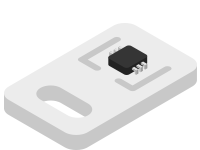
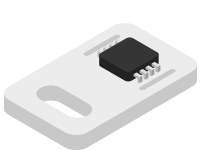
add sht2

Changed region(s): [[0.39, 0.2133, 0.87, 0.6133]]

diff --git a/blockly/apps/mixly/myblock.js b/blockly/apps/mixly/myblock.js
@@ -1,2 +1,2 @@
 var myblock='null';
-var company_block='<sep></sep><!-- type="company" block="block/Microduino.js" generator="generator/Microduino.js"  lib="" --><script type="text/javascript" src="../../blocks/company/core/serial_Blocks.js"></script><script type="text/javascript" src="../../generators/arduino/company/core/serial_Arduino.js"></script><script type="text/javascript" src="../../blocks/company/extended/OLED_Blocks.js"></script><script type="text/javascript" src="../../generators/arduino/company/extended/OLED_Arduino.js"></script><script type="text/javascript" src="../../blocks/company/extended/Motor_Blocks.js"></script><script type="text/javascript" src="../../generators/arduino/company/extended/Motor_Arduino.js"></script><script type="text/javascript" src="../../blocks/company/extended/Stepper_Blocks.js"></script><script type="text/javascript" src="../../generators/arduino/company/extended/Stepper_Arduino.js"></script><script type="text/javascript" src="../../blocks/company/extended/DotMatrix_Blocks.js"></script><script type="text/javascript" src="../../generators/arduino/company/extended/DotMatrix_Arduino.js"></script><script type="text/javascript" src="../../blocks/company/function/Audio_Blocks.js"></script><script type="text/javascript" src="../../generators/arduino/company/function/Audio_Arduino.js"></script><script type="text/javascript" src="../../blocks/company/function/RTC_Blocks.js"></script><script type="text/javascript" src="../../generators/arduino/company/function/RTC_Arduino.js"></script><script type="text/javascript" src="../../blocks/company/function/SD_Blocks.js"></script><script type="text/javascript" src="../../generators/arduino/company/function/SD_Arduino.js"></script><script type="text/javascript" src="../../blocks/company/function/motion_Blocks.js"></script><script type="text/javascript" src="../../generators/arduino/company/function/motion_Arduino.js"></script><script type="text/javascript" src="../../blocks/company/function/GPS_Blocks.js"></script><script type="text/javascript" src="../../generators/arduino/company/function/GPS_Arduino.js"></script><script type="text/javascript" src="../../blocks/company/communication/BT_Blocks.js"></script><script type="text/javascript" src="../../generators/arduino/company/communication/BT_Arduino.js"></script><script type="text/javascript" src="../../blocks/company/communication/Zigbee_Blocks.js"></script><script type="text/javascript" src="../../generators/arduino/company/communication/Zigbee_Arduino.js"></script><script type="text/javascript" src="../../blocks/company/communication/W5500_Blocks.js"></script><script type="text/javascript" src="../../generators/arduino/company/communication/W5500_Arduino.js"></script><script type="text/javascript" src="../../blocks/company/communication/nRF24_Blocks.js"></script><script type="text/javascript" src="../../generators/arduino/company/communication/nRF24_Arduino.js"></script><script type="text/javascript" src="../../blocks/company/communication/smartRF_Blocks.js"></script><script type="text/javascript" src="../../generators/arduino/company/communication/smartRF_Arduino.js"></script><script type="text/javascript" src="../../blocks/company/communication/NFC_Blocks.js"></script><script type="text/javascript" src="../../generators/arduino/company/communication/NFC_Arduino.js"></script><script type="text/javascript" src="../../blocks/company/communication/IRCommunication_Blocks.js"></script><script type="text/javascript" src="../../generators/arduino/company/communication/IRCommunication_Arduino.js"></script><script type="text/javascript" src="../../blocks/company/communication/GSM_Blocks.js"></script><script type="text/javascript" src="../../generators/arduino/company/communication/GSM_Arduino.js"></script><script type="text/javascript" src="../../blocks/company/communication/WIFI_Blocks.js"></script><script type="text/javascript" src="../../generators/arduino/company/communication/WIFI_Arduino.js"></script><script type="text/javascript" src="../../blocks/company/sensor/colorLED_Blocks.js"></script><script type="text/javascript" src="../../generators/arduino/company/sensor/colorLED_Arduino.js"></script><script type="text/javascript" src="../../blocks/company/sensor/BreathingLight_Blocks.js"></script><script type="text/javascript" src="../../generators/arduino/company/sensor/BreathingLight_Arduino.js"></script><script type="text/javascript" src="../../blocks/company/sensor/Timer_Blocks.js"></script><script type="text/javascript" src="../../generators/arduino/company/sensor/Timer_Arduino.js"></script><script type="text/javascript" src="../../blocks/company/sensor/Buzzer_Blocks.js"></script><script type="text/javascript" src="../../generators/arduino/company/sensor/Buzzer_Arduino.js"></script><script type="text/javascript" src="../../blocks/company/sensor/KEY_Blocks.js"></script><script type="text/javascript" src="../../generators/arduino/company/sensor/KEY_Arduino.js"></script><script type="text/javascript" src="../../blocks/company/sensor/Tem_Hum_Blocks.js"></script><script type="text/javascript" src="../../generators/arduino/company/sensor/Tem_Hum_Arduino.js"></script><script type="text/javascript" src="../../blocks/company/sensor/joystick_Blocks.js"></script><script type="text/javascript" src="../../generators/arduino/company/sensor/joystick_Arduino.js"></script><script type="text/javascript" src="../../blocks/company/sensor/LM75_Blocks.js"></script><script type="text/javascript" src="../../generators/arduino/company/sensor/LM75_Arduino.js"></script><script type="text/javascript" src="../../blocks/company/sensor/TSL2561_Blocks.js"></script><script type="text/javascript" src="../../generators/arduino/company/sensor/TSL2561_Arduino.js"></script><script type="text/javascript" src="../../blocks/company/sensor/digitalRead_Blocks.js"></script><script type="text/javascript" src="../../generators/arduino/company/sensor/digitalRead_Arduino.js"></script><script type="text/javascript" src="../../blocks/company/sensor/analogRead_Blocks.js"></script><script type="text/javascript" src="../../generators/arduino/company/sensor/analogRead_Arduino.js"></script><script type="text/javascript" src="../../blocks/company/VariableExpansion/NewVariable_Blocks.js"></script><script type="text/javascript" src="../../generators/arduino/company/VariableExpansion/NewVariable_Arduino.js"></script><category id="microduino" colour="0"><!--鏍稿績--><category id="catMicroduinoCore" colour="#eb584e"><!-- 		<block type="serialBegin"></block><block type="serialPrint"></block><block type="serialPrintln"></block> --><block type="microduinoWatting"></block><block type="microduinoWhile"></block><block type="microduinoFor"><value name="FROM"><shadow type="math_number"><field name="NUM">1</field></shadow></value><value name="TO"><shadow type="math_number"><field name="NUM">10</field></shadow></value></block><block type="microduinoAnaloyWrite"><value name="pwmNumber"><shadow type="math_number"><field name="NUM">0</field></shadow></value></block><block type="microduinoAnaloyRead"></block></category><!--鎵╁睍--><category id="catMicroduinoExtended" colour="#27b6ac"><block type="MotorBeginchange"></block><block type="Motor_run"><value name="speed"><shadow type="math_number"><field name="NUM">255</field></shadow></value></block><block type="MotorBreak"></block><block type="MotorFree"></block><block type="MotorBegin"></block><block type="Car_Motor"><value name="speed"><shadow type="math_number"><field name="NUM">255</field></shadow></value><value name="angle"><shadow type="math_number"><field name="NUM">255</field></shadow></value></block><block type="mCookie_Motor"></block><block type="mdStepperBegin"></block><block type="mdStepperControl"><value name="speed"><shadow type="math_number"><field name="NUM">60</field></shadow></value></block><!--Dot matrix screen--><block type="DotMatrix"><block type="dotMatrixName"></block><value name="row0"><block type="DotMatrixRow"></block></value><value name="row1"><block type="DotMatrixRow"></block></value><value name="row2"><block type="DotMatrixRow"></block></value><value name="row3"><block type="DotMatrixRow"></block></value><value name="row4"><block type="DotMatrixRow"></block></value><value name="row5"><block type="DotMatrixRow"></block></value><value name="row6"><block type="DotMatrixRow"></block></value><value name="row7"><block type="DotMatrixRow"></block></value></block><block type="DotMatrixAddArray"></block><block type="DotMatrixAddNum"></block><block type="getMatrixNum"></block><block type="getMatrixDeviceAddr"><value name="MatrixIndex"><shadow type="math_number"><field name="NUM">1</field></shadow></value></block><block type="getMatrixHeight"></block><block type="getMatrixWidth"></block><block type="setMatrixLedColor"><value name="MatrixIndexX"><shadow type="math_number"><field name="NUM">0</field></shadow></value><value name="MatrixIndexY"><shadow type="math_number"><field name="NUM">0</field></shadow></value><value name="MatrixIndexRed"><shadow type="math_number"><field name="NUM">255</field></shadow></value><value name="MatrixIndexGreen"><shadow type="math_number"><field name="NUM">255</field></shadow></value><value name="MatrixIndexBlue"><shadow type="math_number"><field name="NUM">255</field></shadow></value></block><block type="clearMatrixDisplay"></block><block type="setMatrixColor"><value name="MatrixRed"><shadow type="math_number"><field name="NUM">255</field></shadow></value><value name="MatrixGreen"><shadow type="math_number"><field name="NUM">255</field></shadow></value><value name="MatrixBlue"><shadow type="math_number"><field name="NUM">255</field></shadow></value></block><block type="clearMatrixColor"></block><block type="MatrixWriteString"><value name="startMatrixT"><shadow type="math_number"><field name="NUM">20</field></shadow></value><value name="startMatrixXY"><shadow type="math_number"><field name="NUM">0</field></shadow></value></block><block type="OLED_begin"></block><block type="OLED_print"><value name="x"><shadow type="math_number"><field name="NUM">0</field></shadow></value><value name="y"><shadow type="math_number"><field name="NUM">20</field></shadow></value><value name="text"><block type="text"><field name="TEXT">hello Microduino</field></block></value></block><block type="OLED_print_roll"><value name="y"><shadow type="math_number"><field name="NUM">20</field></shadow></value><value name="x"><shadow type="math_number"><field name="NUM">100</field></shadow></value><value name="text"><block type="text"><field name="TEXT">hello mCookie</field></block></value></block><block type="OLED_simplePrint"><value name="text"><block type="text"><field name="TEXT">hello Microduino</field></block></value></block></category><!--鍔熻兘--><category id="catMicroduinoFunction" colour="#e5b748"><!--audio妯″潡--><block type="mCookie_Audio_Serial"><value name="Vol"><shadow type="math_number"><field name="NUM">20</field></shadow></value></block><block type="mCookie_Audio_Control"></block><block type="mCookie_Audio_Choose"><value name="audioNumber"><shadow type="math_number"><field name="NUM">1</field></shadow></value></block><!--RTC妯″潡--><block type="mCookie_RTC_set"><value name="Year"><shadow type="math_number"><field name="NUM">15</field></shadow></value><value name="Mouth"><shadow type="math_number"><field name="NUM">10</field></shadow></value><value name="Day"><shadow type="math_number"><field name="NUM">5</field></shadow></value><value name="Week"><shadow type="math_number"><field name="NUM">1</field></shadow></value><value name="Hour"><shadow type="math_number"><field name="NUM">10</field></shadow></value><value name="Minute"><shadow type="math_number"><field name="NUM">5</field></shadow></value><value name="Second"><shadow type="math_number"><field name="NUM">0</field></shadow></value></block><block type="mCookie_RTC_time"></block><block type="mCookie_RTC_Output"></block><!--GPS妯″潡--><block type="GPS"></block><block type="GPSShows"><value name="GPSHour"><block type="GPSHour"></block></value><value name="GPSMinute"><block type="GPSMinute"></block></value><value name="GPSSeconds"><block type="GPSSeconds"></block></value><value name="GPSDay"><block type="GPSDay"></block></value><value name="GPSMonth"><block type="GPSMonth"></block></value><value name="GPSYear"><block type="GPSYear"></block></value><value name="GPSFix"><block type="GPSFix"></block></value><value name="GPSQuality"><block type="GPSQuality"></block></value><value name="GPSLatitude"><block type="GPSLatitude"></block></value><value name="GPSLat"><block type="GPSLat"></block></value><value name="GPSLongitude"><block type="GPSLongitude"></block></value><value name="GPSLon"><block type="GPSLon"></block></value><value name="GPSSpeed"><block type="GPSSpeed"></block></value><value name="GPSAngle"><block type="GPSAngle"></block></value><value name="GPSAltitude"><block type="GPSAltitude"></block></value><value name="GPSSatellites"><block type="GPSSatellites"></block></block><!--Motion妯″潡--><block type="motionBegin"></block><block type="accX"></block><block type="accY"></block><block type="accZ"></block><block type="gyroX"></block><block type="gyroY"></block><block type="gyroZ"></block><block type="tabSpace"></block><block type="motionDoing"><value name="ax"><block type="accX"></block></value><value name="ay"><block type="accY"></block></value><value name="az"><block type="accZ"></block></value><value name="gx"><block type="gyroX"></block></value><value name="gy"><block type="gyroY"></block></value><value name="gz"><block type="gyroZ"></block></value></block><!--SD妯″潡--><block type="SD_Write"><value name="File_Name"><block type="text"><field name="File_Name">test.txt</field></block></value></block><block type="SD_Read"><value name="File_Name"><block type="text"><field name="File_Name">test.txt</field></block></value></block></category><!--閫氳--><category id="catMicroduinoCommunication" colour="#51a4ce"><!--BT--><block type="bluetoothMicroduinoBegin"></block><block type="bluetoothMicroduinoReciver"></block><block type="btMicroduinoReciverData"></block><block type="btMicroduinoSenderData"></block><block type="bluetoothmtankBegin"></block><block type="bluetoothmTankReciver"></block><block type="bluetoothmTankdata"></block><block type="bluetoothcolorled"></block><block type="IRSenderCode"><value name="data"><shadow type="math_number"><field name="NUM">0x89ABCDEF</field></shadow></value><value name="bits"><shadow type="math_number"><field name="NUM">32</field></shadow></value></block><block type="IRSenderRaw"><value name="length"><shadow type="math_number"><field name="NUM">3</field></shadow></value><value name="freq"><shadow type="math_number"><field name="NUM">38</field></shadow></value></block><block type="IRReciver"><value name="PIN"><shadow type="pins_digital"></shadow></value><statement name="DO"><block type="serial_print_hex"><value name="CONTENT"><block type="variables_get"><field name="VAR">ir_item</field></block></value></block></statement></block><block type="IRReciverRaw"><value name="PIN"><shadow type="pins_digital"></shadow></value></block><block type="IRReciverEnable"><value name="PIN"><shadow type="pins_digital"></shadow></value></block><!--nRF24--><block type="nRF_Init"></block><block type="nRF_Send"></block><block type="nRF_Read"></block><block type="WiFiBlynk"></block><block type="BLYNK_READ"></block><block type="BLYNK_WRITE"></block><block type="BLYNKParamOne"></block><block type="BLYNKParamArray"><value name="paramNum"><block type="math_number"><field name="NUM">0</field></block></value></block><block type="WiFiBlynkTimer"></block><block type="WiFiBlynkVirtualWrite"></block><!--Zigbee--><!--<block type="Zigbee_AT"></block><block type="Zigbee_Init"><value name="BRate"><block type="math_number"><field name="BRate">9600</field></block></value></block><block type="Zigbee_Send"><value name="text"><block type="text"><field name="TEXT">hello Microduino</field></block></value></block><block type="Zigbee_Read"></block><block type="controls_if"><value name="IF0"><block type="Zigbee_Available"></block></value><statement name="DO0"></statement></block><block type="VariableIs"><value name="VariableIs"><block type="text"><field name="VariableIs">AA</field></block></value></block>--><!--W5500--><!--<block type="controls_if"><value name="IF0"><block type="W5500_Init"></block></value><statement name="DO0"></statement></block>--><!--SmartRF--><!-- 		<block type="smartRF_Init_Send"></block><block type="smartRF_Init_Read"></block><block type="smartRF_Send"></block><block type="smartRF_Read"></block> --><!--NFC--><!-- 		<block type="NFC_Format"></block> --><!--<block type="NFC_Write"></block>--><!-- 		<block type="NFC_Read"></block> --><!--GSM--><!-- 		<block type="GSM_SMS"></block><block type="controls_if"><value name="IF0"><block type="W5500_Init"></block></value><statement name="DO0"></statement></block> --></category><!--鎵ц鍣�--><category id="catMicroduinoExecutor" colour="#e5624d"><!--BreathingLight --><block type="BreathingLightH"><value name="LEDPinNumber"><shadow type="math_number"><field name="NUM">6</field></shadow></value><value name="LEDFrequency"><shadow type="math_number"><field name="NUM">1</field></shadow></value></block><block type="BreathingLightX"><value name="LEDPinNumber"><shadow type="math_number"><field name="NUM">6</field></shadow></value><value name="LEDFrequency"><shadow type="math_number"><field name="NUM">1</field></shadow></value></block><!--colorLED--><block type="ws2812Begin"><value name="LEDNumber"><shadow type="math_number"><field name="NUM">1</field></shadow></value><value name="LEDPin"><shadow type="math_number"><field name="NUM">6</field></shadow></value></block><block type="ws2812Doing"><value name="LEDIndex"><shadow type="math_number"><field name="NUM">1</field></shadow></value></block><block type="ws2812DoingRGB"><value name="LEDIndex"><shadow type="math_number"><field name="NUM">1</field></shadow></value><value name="red"><shadow type="math_number"><field name="NUM">0</field></shadow></value><value name="green"><shadow type="math_number"><field name="NUM">0</field></shadow></value><value name="blue"><shadow type="math_number"><field name="NUM">0</field></shadow></value></block><block type="ws2812BreathRGB"><value name="LEDIndex"><shadow type="math_number"><field name="NUM">1</field></shadow></value><value name="red"><shadow type="math_number"><field name="NUM">255</field></shadow></value><value name="green"><shadow type="math_number"><field name="NUM">255</field></shadow></value><value name="blue"><shadow type="math_number"><field name="NUM">255</field></shadow></value></block><!--BUZZER--><block type="BuzzerTone"><value name="BuzzerPin"><shadow type="math_number"><field name="NUM">6</field></shadow></value><value name="Frequency"><shadow type="math_number"><field name="NUM">200</field></shadow></value></block><block type="BuzzerToneMelody"><value name="BuzzerPin"><shadow type="math_number"><field name="NUM">6</field></shadow></value></block><block type="BuzzerToneSong"><value name="BuzzerPin"><shadow type="math_number"><field name="NUM">6</field></shadow></value></block><block type="BuzzerNoTone"><value name="BuzzerPin"><shadow type="math_number"><field name="NUM">6</field></shadow></value></block><block type="MicroduinoTimer"><value name="intervalTime"><shadow type="math_number"><field name="NUM">2000</field></shadow></value></block><block type="MicroduinoTimerBegin"></block><block type="MicroduinoTimerOut"><value name="intervalTime"><shadow type="math_number"><field name="NUM">2000</field></shadow></value></block></category><!--浼犳劅鍣�--><category id="catMicroduinoSensor" colour="#3bc647"><!--KEY--><!-- 		<block type="oldKEYDigital"></block><block type="oldKEYAnalog"></block> --><block type="Microduino_KEYDigital"></block><block type="Microduino_KEYAnalog"></block><block type="lm75"></block><block type="TSL2561LightReady"></block><block type="TSL2561Light"></block><block type="xyJoystick"></block><block type="microduinoCrash"><value name="digitalPin"><shadow type="math_number"><field name="NUM">6</field></shadow></value></block><block type="microduinoTuch"><value name="digitalPin"><shadow type="math_number"><field name="NUM">6</field></shadow></value></block><block type="microduinoPIR"><value name="digitalPin"><shadow type="math_number"><field name="NUM">6</field></shadow></value></block><block type="microduinoMic"><value name="digitalPin"><shadow type="math_number"><field name="NUM">6</field></shadow></value></block><block type="microduinoLight"><value name="digitalPin"><shadow type="math_number"><field name="NUM">6</field></shadow></value></block><block type="microduinoMicAnal"></block><block type="microduinoLightAnal"></block><block type="microduinoIRRactAnal"></block><!--TEMP HUM--><block type="mCookie_AM2321"></block></category><!--鎵╁睍鍙橀噺--><category id="catVariableExpansion" colour="#da6ba3"><block type="Defination"></block><block type="nrfDataStructDefine"></block><block type="nrfDataMemberDefine"></block><block type="nrfDataSender"></block><block type="nrfDataMemberSender"></block><block type="nrfDataMemberReciver"></block><!-- 	      <block type="Structure"><statement name="DO"></statement></block><block type="Var_Definations"></block><block type="Struct_Var_Definations"></block> --><block type="melodyBuzzer"></block><block type="rhythmBuzzer"></block></category></category>';
+var company_block='<sep></sep><!-- type="company" block="block/Microduino.js" generator="generator/Microduino.js"  lib="" --><script type="text/javascript" src="../../blocks/company/core/serial_Blocks.js"></script><script type="text/javascript" src="../../generators/arduino/company/core/serial_Arduino.js"></script><script type="text/javascript" src="../../blocks/company/extended/OLED_Blocks.js"></script><script type="text/javascript" src="../../generators/arduino/company/extended/OLED_Arduino.js"></script><script type="text/javascript" src="../../blocks/company/extended/Motor_Blocks.js"></script><script type="text/javascript" src="../../generators/arduino/company/extended/Motor_Arduino.js"></script><script type="text/javascript" src="../../blocks/company/extended/Stepper_Blocks.js"></script><script type="text/javascript" src="../../generators/arduino/company/extended/Stepper_Arduino.js"></script><script type="text/javascript" src="../../blocks/company/extended/DotMatrix_Blocks.js"></script><script type="text/javascript" src="../../generators/arduino/company/extended/DotMatrix_Arduino.js"></script><script type="text/javascript" src="../../blocks/company/function/Audio_Blocks.js"></script><script type="text/javascript" src="../../generators/arduino/company/function/Audio_Arduino.js"></script><script type="text/javascript" src="../../blocks/company/function/RTC_Blocks.js"></script><script type="text/javascript" src="../../generators/arduino/company/function/RTC_Arduino.js"></script><script type="text/javascript" src="../../blocks/company/function/SD_Blocks.js"></script><script type="text/javascript" src="../../generators/arduino/company/function/SD_Arduino.js"></script><script type="text/javascript" src="../../blocks/company/function/motion_Blocks.js"></script><script type="text/javascript" src="../../generators/arduino/company/function/motion_Arduino.js"></script><script type="text/javascript" src="../../blocks/company/function/GPS_Blocks.js"></script><script type="text/javascript" src="../../generators/arduino/company/function/GPS_Arduino.js"></script><script type="text/javascript" src="../../blocks/company/communication/BT_Blocks.js"></script><script type="text/javascript" src="../../generators/arduino/company/communication/BT_Arduino.js"></script><script type="text/javascript" src="../../blocks/company/communication/Zigbee_Blocks.js"></script><script type="text/javascript" src="../../generators/arduino/company/communication/Zigbee_Arduino.js"></script><script type="text/javascript" src="../../blocks/company/communication/W5500_Blocks.js"></script><script type="text/javascript" src="../../generators/arduino/company/communication/W5500_Arduino.js"></script><script type="text/javascript" src="../../blocks/company/communication/nRF24_Blocks.js"></script><script type="text/javascript" src="../../generators/arduino/company/communication/nRF24_Arduino.js"></script><script type="text/javascript" src="../../blocks/company/communication/smartRF_Blocks.js"></script><script type="text/javascript" src="../../generators/arduino/company/communication/smartRF_Arduino.js"></script><script type="text/javascript" src="../../blocks/company/communication/NFC_Blocks.js"></script><script type="text/javascript" src="../../generators/arduino/company/communication/NFC_Arduino.js"></script><script type="text/javascript" src="../../blocks/company/communication/IRCommunication_Blocks.js"></script><script type="text/javascript" src="../../generators/arduino/company/communication/IRCommunication_Arduino.js"></script><script type="text/javascript" src="../../blocks/company/communication/GSM_Blocks.js"></script><script type="text/javascript" src="../../generators/arduino/company/communication/GSM_Arduino.js"></script><script type="text/javascript" src="../../blocks/company/communication/WIFI_Blocks.js"></script><script type="text/javascript" src="../../generators/arduino/company/communication/WIFI_Arduino.js"></script><script type="text/javascript" src="../../blocks/company/sensor/colorLED_Blocks.js"></script><script type="text/javascript" src="../../generators/arduino/company/sensor/colorLED_Arduino.js"></script><script type="text/javascript" src="../../blocks/company/sensor/BreathingLight_Blocks.js"></script><script type="text/javascript" src="../../generators/arduino/company/sensor/BreathingLight_Arduino.js"></script><script type="text/javascript" src="../../blocks/company/sensor/Timer_Blocks.js"></script><script type="text/javascript" src="../../generators/arduino/company/sensor/Timer_Arduino.js"></script><script type="text/javascript" src="../../blocks/company/sensor/Buzzer_Blocks.js"></script><script type="text/javascript" src="../../generators/arduino/company/sensor/Buzzer_Arduino.js"></script><script type="text/javascript" src="../../blocks/company/sensor/KEY_Blocks.js"></script><script type="text/javascript" src="../../generators/arduino/company/sensor/KEY_Arduino.js"></script><script type="text/javascript" src="../../blocks/company/sensor/Tem_Hum_Blocks.js"></script><script type="text/javascript" src="../../generators/arduino/company/sensor/Tem_Hum_Arduino.js"></script><script type="text/javascript" src="../../blocks/company/sensor/joystick_Blocks.js"></script><script type="text/javascript" src="../../generators/arduino/company/sensor/joystick_Arduino.js"></script><script type="text/javascript" src="../../blocks/company/sensor/LM75_Blocks.js"></script><script type="text/javascript" src="../../generators/arduino/company/sensor/LM75_Arduino.js"></script><script type="text/javascript" src="../../blocks/company/sensor/TSL2561_Blocks.js"></script><script type="text/javascript" src="../../generators/arduino/company/sensor/TSL2561_Arduino.js"></script><script type="text/javascript" src="../../blocks/company/sensor/digitalRead_Blocks.js"></script><script type="text/javascript" src="../../generators/arduino/company/sensor/digitalRead_Arduino.js"></script><script type="text/javascript" src="../../blocks/company/sensor/analogRead_Blocks.js"></script><script type="text/javascript" src="../../generators/arduino/company/sensor/analogRead_Arduino.js"></script><script type="text/javascript" src="../../blocks/company/VariableExpansion/NewVariable_Blocks.js"></script><script type="text/javascript" src="../../generators/arduino/company/VariableExpansion/NewVariable_Arduino.js"></script><category id="microduino" colour="0"><!--鏍稿績--><category id="catMicroduinoCore" colour="#eb584e"><!-- 		<block type="serialBegin"></block><block type="serialPrint"></block><block type="serialPrintln"></block> --><block type="microduinoWatting"></block><block type="microduinoWhile"></block><block type="microduinoFor"><value name="FROM"><shadow type="math_number"><field name="NUM">1</field></shadow></value><value name="TO"><shadow type="math_number"><field name="NUM">10</field></shadow></value></block><block type="microduinoAnaloyWrite"><value name="pwmNumber"><shadow type="math_number"><field name="NUM">0</field></shadow></value></block><block type="microduinoAnaloyRead"></block></category><!--鎵╁睍--><category id="catMicroduinoExtended" colour="#27b6ac"><block type="MotorBeginchange"></block><block type="Motor_run"><value name="speed"><shadow type="math_number"><field name="NUM">255</field></shadow></value></block><block type="MotorBreak"></block><block type="MotorFree"></block><block type="MotorBegin"></block><block type="Car_Motor"><value name="speed"><shadow type="math_number"><field name="NUM">255</field></shadow></value><value name="angle"><shadow type="math_number"><field name="NUM">255</field></shadow></value></block><block type="mCookie_Motor"></block><block type="mdStepperBegin"></block><block type="mdStepperControl"><value name="speed"><shadow type="math_number"><field name="NUM">60</field></shadow></value></block><!--Dot matrix screen--><block type="DotMatrix"><block type="dotMatrixName"></block><value name="row0"><block type="DotMatrixRow"></block></value><value name="row1"><block type="DotMatrixRow"></block></value><value name="row2"><block type="DotMatrixRow"></block></value><value name="row3"><block type="DotMatrixRow"></block></value><value name="row4"><block type="DotMatrixRow"></block></value><value name="row5"><block type="DotMatrixRow"></block></value><value name="row6"><block type="DotMatrixRow"></block></value><value name="row7"><block type="DotMatrixRow"></block></value></block><block type="DotMatrixAddArray"></block><block type="DotMatrixAddNum"></block><block type="getMatrixNum"></block><block type="getMatrixDeviceAddr"><value name="MatrixIndex"><shadow type="math_number"><field name="NUM">1</field></shadow></value></block><block type="getMatrixHeight"></block><block type="getMatrixWidth"></block><block type="setMatrixLedColor"><value name="MatrixIndexX"><shadow type="math_number"><field name="NUM">0</field></shadow></value><value name="MatrixIndexY"><shadow type="math_number"><field name="NUM">0</field></shadow></value><value name="MatrixIndexRed"><shadow type="math_number"><field name="NUM">255</field></shadow></value><value name="MatrixIndexGreen"><shadow type="math_number"><field name="NUM">255</field></shadow></value><value name="MatrixIndexBlue"><shadow type="math_number"><field name="NUM">255</field></shadow></value></block><block type="clearMatrixDisplay"></block><block type="setMatrixColor"><value name="MatrixRed"><shadow type="math_number"><field name="NUM">255</field></shadow></value><value name="MatrixGreen"><shadow type="math_number"><field name="NUM">255</field></shadow></value><value name="MatrixBlue"><shadow type="math_number"><field name="NUM">255</field></shadow></value></block><block type="clearMatrixColor"></block><block type="MatrixWriteString"><value name="startMatrixT"><shadow type="math_number"><field name="NUM">20</field></shadow></value><value name="startMatrixXY"><shadow type="math_number"><field name="NUM">0</field></shadow></value></block><block type="OLED_begin"></block><block type="OLED_print"><value name="x"><shadow type="math_number"><field name="NUM">0</field></shadow></value><value name="y"><shadow type="math_number"><field name="NUM">20</field></shadow></value><value name="text"><block type="text"><field name="TEXT">hello Microduino</field></block></value></block><block type="OLED_print_roll"><value name="y"><shadow type="math_number"><field name="NUM">20</field></shadow></value><value name="x"><shadow type="math_number"><field name="NUM">100</field></shadow></value><value name="text"><block type="text"><field name="TEXT">hello mCookie</field></block></value></block><block type="OLED_simplePrint"><value name="text"><block type="text"><field name="TEXT">hello Microduino</field></block></value></block></category><!--鍔熻兘--><category id="catMicroduinoFunction" colour="#e5b748"><!--audio妯″潡--><block type="mCookie_Audio_Serial"><value name="Vol"><shadow type="math_number"><field name="NUM">20</field></shadow></value></block><block type="mCookie_Audio_Control"></block><block type="mCookie_Audio_Choose"><value name="audioNumber"><shadow type="math_number"><field name="NUM">1</field></shadow></value></block><!--RTC妯″潡--><block type="mCookie_RTC_set"><value name="Year"><shadow type="math_number"><field name="NUM">15</field></shadow></value><value name="Mouth"><shadow type="math_number"><field name="NUM">10</field></shadow></value><value name="Day"><shadow type="math_number"><field name="NUM">5</field></shadow></value><value name="Week"><shadow type="math_number"><field name="NUM">1</field></shadow></value><value name="Hour"><shadow type="math_number"><field name="NUM">10</field></shadow></value><value name="Minute"><shadow type="math_number"><field name="NUM">5</field></shadow></value><value name="Second"><shadow type="math_number"><field name="NUM">0</field></shadow></value></block><block type="mCookie_RTC_time"></block><block type="mCookie_RTC_Output"></block><!--GPS妯″潡--><block type="GPS"></block><block type="GPSShows"><value name="GPSHour"><block type="GPSHour"></block></value><value name="GPSMinute"><block type="GPSMinute"></block></value><value name="GPSSeconds"><block type="GPSSeconds"></block></value><value name="GPSDay"><block type="GPSDay"></block></value><value name="GPSMonth"><block type="GPSMonth"></block></value><value name="GPSYear"><block type="GPSYear"></block></value><value name="GPSFix"><block type="GPSFix"></block></value><value name="GPSQuality"><block type="GPSQuality"></block></value><value name="GPSLatitude"><block type="GPSLatitude"></block></value><value name="GPSLat"><block type="GPSLat"></block></value><value name="GPSLongitude"><block type="GPSLongitude"></block></value><value name="GPSLon"><block type="GPSLon"></block></value><value name="GPSSpeed"><block type="GPSSpeed"></block></value><value name="GPSAngle"><block type="GPSAngle"></block></value><value name="GPSAltitude"><block type="GPSAltitude"></block></value><value name="GPSSatellites"><block type="GPSSatellites"></block></block><!--Motion妯″潡--><block type="motionBegin"></block><block type="accX"></block><block type="accY"></block><block type="accZ"></block><block type="gyroX"></block><block type="gyroY"></block><block type="gyroZ"></block><block type="tabSpace"></block><block type="motionDoing"><value name="ax"><block type="accX"></block></value><value name="ay"><block type="accY"></block></value><value name="az"><block type="accZ"></block></value><value name="gx"><block type="gyroX"></block></value><value name="gy"><block type="gyroY"></block></value><value name="gz"><block type="gyroZ"></block></value></block><!--SD妯″潡--><block type="SD_Write"><value name="File_Name"><block type="text"><field name="File_Name">test.txt</field></block></value></block><block type="SD_Read"><value name="File_Name"><block type="text"><field name="File_Name">test.txt</field></block></value></block></category><!--閫氳--><category id="catMicroduinoCommunication" colour="#51a4ce"><!--BT--><block type="bluetoothMicroduinoBegin"></block><block type="bluetoothMicroduinoReciver"></block><block type="btMicroduinoReciverData"></block><block type="btMicroduinoSenderData"></block><block type="bluetoothmtankBegin"></block><block type="bluetoothmTankReciver"></block><block type="bluetoothmTankdata"></block><block type="bluetoothcolorled"></block><block type="IRSenderCode"><value name="data"><shadow type="math_number"><field name="NUM">0x89ABCDEF</field></shadow></value><value name="bits"><shadow type="math_number"><field name="NUM">32</field></shadow></value></block><block type="IRSenderRaw"><value name="length"><shadow type="math_number"><field name="NUM">3</field></shadow></value><value name="freq"><shadow type="math_number"><field name="NUM">38</field></shadow></value></block><block type="IRReciver"><value name="PIN"><shadow type="pins_digital"></shadow></value><statement name="DO"><block type="serial_print_hex"><value name="CONTENT"><block type="variables_get"><field name="VAR">ir_item</field></block></value></block></statement></block><block type="IRReciverRaw"><value name="PIN"><shadow type="pins_digital"></shadow></value></block><block type="IRReciverEnable"><value name="PIN"><shadow type="pins_digital"></shadow></value></block><!--nRF24--><block type="nRF_Init"></block><block type="nRF_Send"></block><block type="nRF_Read"></block><block type="WiFiBlynk"></block><block type="BLYNK_READ"></block><block type="BLYNK_WRITE"></block><block type="BLYNKParamOne"></block><block type="BLYNKParamArray"><value name="paramNum"><block type="math_number"><field name="NUM">0</field></block></value></block><block type="WiFiBlynkTimer"></block><block type="WiFiBlynkVirtualWrite"></block><!--Zigbee--><!--<block type="Zigbee_AT"></block><block type="Zigbee_Init"><value name="BRate"><block type="math_number"><field name="BRate">9600</field></block></value></block><block type="Zigbee_Send"><value name="text"><block type="text"><field name="TEXT">hello Microduino</field></block></value></block><block type="Zigbee_Read"></block><block type="controls_if"><value name="IF0"><block type="Zigbee_Available"></block></value><statement name="DO0"></statement></block><block type="VariableIs"><value name="VariableIs"><block type="text"><field name="VariableIs">AA</field></block></value></block>--><!--W5500--><!--<block type="controls_if"><value name="IF0"><block type="W5500_Init"></block></value><statement name="DO0"></statement></block>--><!--SmartRF--><!-- 		<block type="smartRF_Init_Send"></block><block type="smartRF_Init_Read"></block><block type="smartRF_Send"></block><block type="smartRF_Read"></block> --><!--NFC--><!-- 		<block type="NFC_Format"></block> --><!--<block type="NFC_Write"></block>--><!-- 		<block type="NFC_Read"></block> --><!--GSM--><!-- 		<block type="GSM_SMS"></block><block type="controls_if"><value name="IF0"><block type="W5500_Init"></block></value><statement name="DO0"></statement></block> --></category><!--鎵ц鍣�--><category id="catMicroduinoExecutor" colour="#e5624d"><!--BreathingLight --><block type="BreathingLightH"><value name="LEDPinNumber"><shadow type="math_number"><field name="NUM">6</field></shadow></value><value name="LEDFrequency"><shadow type="math_number"><field name="NUM">1</field></shadow></value></block><block type="BreathingLightX"><value name="LEDPinNumber"><shadow type="math_number"><field name="NUM">6</field></shadow></value><value name="LEDFrequency"><shadow type="math_number"><field name="NUM">1</field></shadow></value></block><!--colorLED--><block type="ws2812Begin"><value name="LEDNumber"><shadow type="math_number"><field name="NUM">1</field></shadow></value><value name="LEDPin"><shadow type="math_number"><field name="NUM">6</field></shadow></value></block><block type="ws2812Doing"><value name="LEDIndex"><shadow type="math_number"><field name="NUM">1</field></shadow></value></block><block type="ws2812DoingRGB"><value name="LEDIndex"><shadow type="math_number"><field name="NUM">1</field></shadow></value><value name="red"><shadow type="math_number"><field name="NUM">0</field></shadow></value><value name="green"><shadow type="math_number"><field name="NUM">0</field></shadow></value><value name="blue"><shadow type="math_number"><field name="NUM">0</field></shadow></value></block><block type="ws2812BreathRGB"><value name="LEDIndex"><shadow type="math_number"><field name="NUM">1</field></shadow></value><value name="red"><shadow type="math_number"><field name="NUM">255</field></shadow></value><value name="green"><shadow type="math_number"><field name="NUM">255</field></shadow></value><value name="blue"><shadow type="math_number"><field name="NUM">255</field></shadow></value></block><!--BUZZER--><block type="BuzzerTone"><value name="BuzzerPin"><shadow type="math_number"><field name="NUM">6</field></shadow></value><value name="Frequency"><shadow type="math_number"><field name="NUM">200</field></shadow></value></block><block type="BuzzerToneMelody"><value name="BuzzerPin"><shadow type="math_number"><field name="NUM">6</field></shadow></value></block><block type="BuzzerToneSong"><value name="BuzzerPin"><shadow type="math_number"><field name="NUM">6</field></shadow></value></block><block type="BuzzerNoTone"><value name="BuzzerPin"><shadow type="math_number"><field name="NUM">6</field></shadow></value></block><block type="MicroduinoTimer"><value name="intervalTime"><shadow type="math_number"><field name="NUM">2000</field></shadow></value></block><block type="MicroduinoTimerBegin"></block><block type="MicroduinoTimerOut"><value name="intervalTime"><shadow type="math_number"><field name="NUM">2000</field></shadow></value></block></category><!--浼犳劅鍣�--><category id="catMicroduinoSensor" colour="#3bc647"><!--KEY--><!-- 		<block type="oldKEYDigital"></block><block type="oldKEYAnalog"></block> --><block type="Microduino_KEYDigital"></block><block type="Microduino_KEYAnalog"></block><block type="lm75"></block><block type="TSL2561LightReady"></block><block type="TSL2561Light"></block><block type="xyJoystick"></block><block type="microduinoCrash"><value name="digitalPin"><shadow type="math_number"><field name="NUM">6</field></shadow></value></block><block type="microduinoTuch"><value name="digitalPin"><shadow type="math_number"><field name="NUM">6</field></shadow></value></block><block type="microduinoPIR"><value name="digitalPin"><shadow type="math_number"><field name="NUM">6</field></shadow></value></block><block type="microduinoMic"><value name="digitalPin"><shadow type="math_number"><field name="NUM">6</field></shadow></value></block><block type="microduinoLight"><value name="digitalPin"><shadow type="math_number"><field name="NUM">6</field></shadow></value></block><block type="microduinoMicAnal"></block><block type="microduinoLightAnal"></block><block type="microduinoIRRactAnal"></block><!--TEMP HUM--><block type="mCookie_AM2321"></block><block type="mCookie_SHT2"></block></category><!--鎵╁睍鍙橀噺--><category id="catVariableExpansion" colour="#da6ba3"><block type="Defination"></block><block type="nrfDataStructDefine"></block><block type="nrfDataMemberDefine"></block><block type="nrfDataSender"></block><block type="nrfDataMemberSender"></block><block type="nrfDataMemberReciver"></block><!-- 	      <block type="Structure"><statement name="DO"></statement></block><block type="Var_Definations"></block><block type="Struct_Var_Definations"></block> --><block type="melodyBuzzer"></block><block type="rhythmBuzzer"></block></category></category>';

diff --git a/blockly/generators/arduino/company/sensor/Tem_Hum_Arduino.js b/blockly/generators/arduino/company/sensor/Tem_Hum_Arduino.js
@@ -7,24 +7,11 @@ goog.require('Blockly.Arduino');
 Blockly.Arduino.mCookie_AM2321 = function() {
 var Tem_Hum = this.getTitleValue('direction');
 
-
-// var tempHumidCode='';
-// tempHumidCode+='\n';
-// tempHumidCode+='\n';
-// tempHumidCode+='\n';
-
 var code='readByAM2321('+Tem_Hum+')';
 
 Blockly.Arduino.definitions_['Wire'] = '#include <Wire.h>';
 Blockly.Arduino.definitions_['AM2321'] = '#include <AM2321.h>';
 
-
-
-// var AM2321DefineVar='';
-// AM2321DefineVar+='float tempMY=0.0;';
-// AM2321DefineVar+='float humidMY=0.0;';
-
-// Blockly.Arduino.definitions_['AM2321DefineVar'] = AM2321DefineVar;
 
 var joyName='readByAM2321';
 var code1 = 'float ' +joyName+'(int num) {\n';
@@ -45,5 +32,51 @@ var code1 = 'float ' +joyName+'(int num) {\n';
 
 
  Blockly.Arduino.definitions_[joyName] = code1; 
+ return [code, Blockly.Arduino.ORDER_ATOMIC]|| '0';
+};
+
+
+
+
+Blockly.Arduino.mCookie_SHT2 = function() {
+var Tem_Hum = this.getTitleValue('direction');
+
+//var code='readByAM2321('+Tem_Hum+')';
+
+Blockly.Arduino.definitions_['Wire'] = '#include <Wire.h>';
+Blockly.Arduino.definitions_['SHT2x'] = '#include <SHT2x.h>';
+
+
+Blockly.Arduino.setups_['Wire'] = 'Wire.begin();';
+
+// var joyName='readByAM2321';
+// var code1 = 'float ' +joyName+'(int num) {\n';
+// 	code1+='	AM2321 am2321;\n';
+// 	code1+='	am2321.read();\n';
+// 	code1+='	float sensor_tem=am2321.temperature/10.0;\n';
+// 	code1+='	float sensor_hum=am2321.humidity/10.0;\n';
+// 	code1+='	delay(500);\n'
+// 	code1+='	if(num==1) {\n';
+// 	code1+='		return sensor_tem;\n';
+// 	code1+='	}\n';
+// 	code1+='	else if(num==2) {\n';
+// 	code1+='		return sensor_hum;\n';
+// 	code1+='	} else {\n';
+// 	code1+='		return 0.0;\n';
+// 	code1+='	}\n';
+// 	code1+='}\n';
+ // Blockly.Arduino.definitions_[joyName] = code1; 
+ var code='';
+ if(Tem_Hum=='1') {
+ 	code+='SHT2x.GetTemperature()';
+ } else if(Tem_Hum=='2') {
+ 	code+='SHT2x.GetHumidity()';
+ } 
+
+
+
+
+
+
  return [code, Blockly.Arduino.ORDER_ATOMIC]|| '0';
 };

diff --git a/blockly/blocks/company/sensor/Tem_Hum_Blocks.js b/blockly/blocks/company/sensor/Tem_Hum_Blocks.js
@@ -12,13 +12,34 @@ Blockly.Blocks.mCookie_AM2321 = {
   init: function() {
     this.setColour(colorSet);
     this.appendDummyInput("")
-    .appendField(new Blockly.FieldImage("../../media/Microduino/AM2312.png", 40, 30))
+    .appendField(new Blockly.FieldImage("../../media/Microduino/AM2321.jpg", 40, 30))
 	    .appendTitle(Blockly.BLE_AM2321)
 	    .appendTitle("#")
 	    .appendTitle(new Blockly.FieldDropdown([[Blockly.BLE_Tem, "1"], [Blockly.BLE_Hum, "2"]]),'direction')
 		.appendTitle(Blockly.BLE_Hum_Tem);
 
     var tip="获取一个温湿度值\n";
+    tip+="返回一个数字值\n";
+    tip+="IIC接口\n";
+    this.setTooltip(tip);
+
+    this.setInputsInline(true);
+    // this.setPreviousStatement(true);
+    // this.setNextStatement(true);
+    this.setOutput(true);
+  }
+};
+
+Blockly.Blocks.mCookie_SHT2 = {   
+  init: function() {
+    this.setColour(colorSet);
+    this.appendDummyInput("")
+    .appendField(new Blockly.FieldImage("../../media/Microduino/SHT2.png", 40, 30))
+        .appendTitle(Blockly.BLE_AM2321)
+        .appendTitle(new Blockly.FieldDropdown([[Blockly.BLE_Tem, "1"], [Blockly.BLE_Hum, "2"]]),'direction')
+        .appendTitle(Blockly.BLE_Hum_Tem);
+
+    var tip="获取一个温湿度值,采用SHT2芯片\n";
     tip+="返回一个数字值\n";
     tip+="IIC接口\n";
     this.setTooltip(tip);
